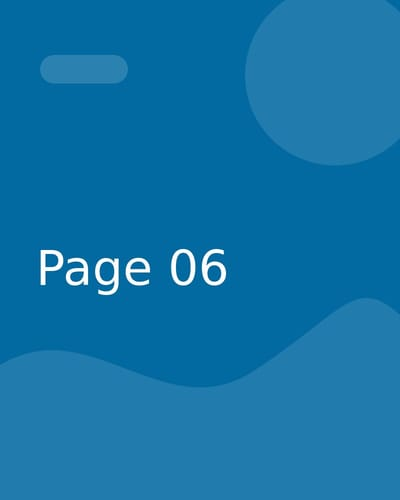
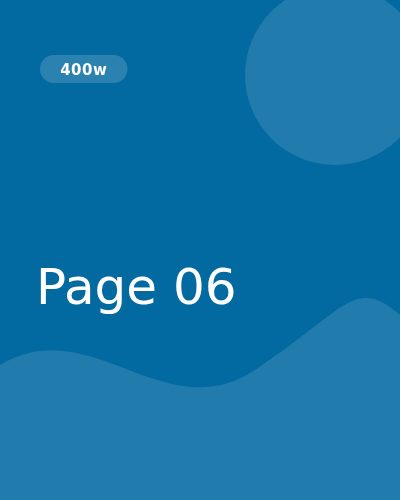
docs(core): document srcset on pages and demo three renditions (#451)
Closes #440. Part of #437.

## Summary

The last part of the `srcset` work after #443 and #449: the README
section, a fuller demo, and end-to-end coverage for each rendition.

## Changes

- **README.** A new "Responsive page images" section, placed before
"Lazy page metadata", covers:
- the `srcset` field and its microsyntax, with a link to MDN instead of
a restatement;
- why there is no `sizes`, and how the required width comes from the
slot, the fit mode, and `devicePixelRatio`;
  - the `w` / `x` selection rule;
  - that zoom is ignored and a resize only upgrades;
  - that `src` is the fallback and `placeholder` is not a rendition;
- a pointer to the plugin `url` note, which #449 already added to the
Plugins section.

  "Basic usage" now lists `srcset` among the optional page fields.
- **Demo.** #449 added a minimal `/features/srcset` route. This PR
extends that route rather than adding the `/responsive` route the issue
named, so the demo navigation keeps one entry for the feature. Each page
now has 400w, 800w, and 1600w renditions, and `src` points at the 800w
one. All 24 images are rendered from `public/page-sources/*.svg` with
the rendition width printed in the pill at the top left. This way the
demo shows which candidate is on screen. The largest file is about 49
KB. The description and the source panel are updated in both apps.
- **E2E** (`e2e/tests/features/srcset.e2e.ts`). Page 1 requests exactly
one rendition in each case:
  - `400w` on a phone;
[…]

Changed region(s): [[0.09, 0.48, 0.39, 0.63], [0.42, 0.48, 0.6, 0.63], [0.15, 0.12, 0.27, 0.15]]

diff --git a/e2e/tests/features/srcset.e2e.ts b/e2e/tests/features/srcset.e2e.ts
@@ -1,40 +1,87 @@
 import { expect, test } from "@playwright/test";
 import type { Page } from "@playwright/test";
 
-import { currentPageSet } from "#helpers/selectors";
+import { currentPageSet, viewport } from "#helpers/selectors";
 
-/** Records the path of every page image the reader requests from here on. */
-const recordPageImageRequests = (page: Page): string[] => {
-  const paths: string[] = [];
+const phone = { height: 844, width: 390 };
+const desktop = { height: 900, width: 1280 };
+
+/** Records the rendition of page 1 the reader requests each time it asks. */
+const recordFirstPageRequests = (page: Page): string[] => {
+  const renditions: string[] = [];
 
   page.on("request", (request) => {
-    const { pathname } = new URL(request.url());
-    if (/^\/(?:basic|srcset)-pages\//u.test(pathname)) {
-      paths.push(pathname);
+    const rendition = /^\/srcset-pages\/page-1-(?<width>\d+w)\.jpg$/u.exec(
+      new URL(request.url()).pathname
+    )?.groups?.width;
+    if (rendition !== undefined) {
+      renditions.push(rendition);
     }
   });
 
-  return paths;
+  return renditions;
 };
 
-test("fetches the larger rendition once the viewport grows past the smaller one", async ({
-  page,
-}) => {
-  const requestedPaths = recordPageImageRequests(page);
-  await page.setViewportSize({ height: 844, width: 390 });
+const firstPage = (page: Page) =>
+  page.locator(`${currentPageSet} canvas[aria-label="Page 1"]`);
+
+test("fetches the smallest rendition on a phone", async ({ page }) => {
+  const renditions = recordFirstPageRequests(page);
+  await page.setViewportSize(phone);
   await page.goto("/features/srcset");
 
-  const firstPage = page.locator(
-    `${currentPageSet} canvas[aria-label="Page 1"]`
-  );
-  await expect(firstPage).toHaveAttribute("data-page-status", "loaded");
-  // A phone draws the page narrower than 400 pixels, so the small one serves.
-  expect(requestedPaths).toContain("/srcset-pages/page-1-400w.jpg");
-  expect(requestedPaths).not.toContain("/basic-pages/page-1.jpg");
+  await expect(firstPage(page)).toHaveAttribute("data-page-status", "loaded");
+  // A phone draws the page narrower than 400 pixels.
+  expect(renditions).toEqual(["400w"]);
+});
 
-  await page.setViewportSize({ height: 900, width: 1280 });
+test("fetches the middle rendition on a desktop display", async ({ page }) => {
+  const renditions = recordFirstPageRequests(page);
+  await page.setViewportSize(desktop);
+  await page.goto("/features/srcset");
 
-  await expect.poll(() => requestedPaths).toContain("/basic-pages/page-1.jpg");
+  await expect(firstPage(page)).toHaveAttribute("data-page-status", "loaded");
+  expect(renditions).toEqual(["800w"]);
+});
+
+test.describe("on a high-density display", () => {
+  test.use({ deviceScaleFactor: 2 });
+
+  test("fetches the largest rendition", async ({ page }) => {
+    const renditions = recordFirstPageRequests(page);
+    await page.setViewportSize(desktop);
+    await page.goto("/features/srcset");
+
+    await expect(firstPage(page)).toHaveAttribute("data-page-status", "loaded");
+    expect(renditions).toEqual(["1600w"]);
+  });
+});
+
+test("upgrades the rendition as the viewport grows and keeps it as it shrinks", async ({
+  page,
+}) => {
+  const renditions = recordFirstPageRequests(page);
+  await page.setViewportSize(phone);
+  await page.goto("/features/srcset");
+
+  await expect(firstPage(page)).toHaveAttribute("data-page-status", "loaded");
+  expect(renditions).toEqual(["400w"]);
+
+  await page.setViewportSize(desktop);
+
+  await expect.poll(() => renditions).toEqual(["400w", "800w"]);
   // The page stays drawn while the larger rendition replaces the smaller one.
-  await expect(firstPage).toHaveAttribute("data-page-status", "loaded");
+  await expect(firstPage(page)).toHaveAttribute("data-page-status", "loaded");
+
+  await page.setViewportSize(phone);
+  await expect(page.locator(viewport)).toHaveAttribute(
+    "data-view-mode",
+    "single"
+  );
+  // Leave the loader time to start a request it should not make.
+  await page.waitForTimeout(500);
+
+  // A page that holds a larger image keeps it rather than fetching a smaller one.
+  expect(renditions).toEqual(["400w", "800w"]);
+  await expect(firstPage(page)).toHaveAttribute("data-page-status", "loaded");
 });

diff --git a/apps/demo/app/features/srcset/page.tsx b/apps/demo/app/features/srcset/page.tsx
@@ -10,9 +10,11 @@ const pages = [
   {
     height: 1000,
     id: "page-1",
-    src: "/pages/1.jpg",
-    // The same image at 400 and 800 pixels wide.
-    srcset: "/pages/1-400w.jpg 400w, /pages/1.jpg 800w",
+    // The fallback when srcset is missing or yields no candidate.
+    src: "/pages/1-800w.jpg",
+    // The same image at 400, 800, and 1600 pixels wide.
+    srcset:
+      "/pages/1-400w.jpg 400w, /pages/1-800w.jpg 800w, /pages/1-1600w.jpg 1600w",
     title: "Page 1",
     width: 800,
   },
@@ -34,11 +36,12 @@ const SrcsetPage = () => (
       <section className={styles.description}>
         <h2>Renditions from a srcset</h2>
         <p>
-          Every page lists a 400-pixel and an 800-pixel rendition in{" "}
+          Every page lists renditions 400, 800, and 1600 pixels wide in{" "}
           <code>srcset</code>, and the viewer fetches the smallest one that
           covers the width it draws the page at in device pixels, the way a
-          browser picks a candidate for <code>&lt;img srcset&gt;</code>. On a
-          phone that is the small one.
+          browser picks a candidate for <code>&lt;img srcset&gt;</code>. The
+          label at the top of each page names the rendition on screen: 400w on a
+          phone, 800w on a desktop display, and 1600w on a high-density one.
         </p>
         <p>
           Widen the window and the pages that have outgrown their rendition load

diff --git a/apps/demo-tw/app/features/srcset/page.tsx b/apps/demo-tw/app/features/srcset/page.tsx
@@ -20,11 +20,12 @@ const SrcsetPage = async () => {
         <section className="rounded-xl border border-slate-300 bg-white p-5 text-sm leading-6 shadow-sm dark:border-slate-700 dark:bg-slate-900">
           <h2 className="font-semibold">Renditions from a srcset</h2>
           <p className="mt-2 text-slate-600 dark:text-slate-300">
-            Every page lists a 400-pixel and an 800-pixel rendition in{" "}
+            Every page lists renditions 400, 800, and 1600 pixels wide in{" "}
             <code>srcset</code>, and the viewer fetches the smallest one that
             covers the width it draws the page at in device pixels, the way a
-            browser picks a candidate for <code>&lt;img srcset&gt;</code>. On a
-            phone that is the small one.
+            browser picks a candidate for <code>&lt;img srcset&gt;</code>. The
+            label at the top of each page names the rendition on screen: 400w on
+            a phone, 800w on a desktop display, and 1600w on a high-density one.
           </p>
           <p className="mt-2 text-slate-600 dark:text-slate-300">
             Widen the window and the pages that have outgrown their rendition

diff --git a/apps/demo-tw/app/features/srcset/_components/srcset-reader.tsx b/apps/demo-tw/app/features/srcset/_components/srcset-reader.tsx
@@ -35,17 +35,22 @@ const PageNavigation = () => {
   );
 };
 
+const srcsetPageUrl = (pageNumber: number, width: number): string =>
+  `/srcset-pages/page-${pageNumber}-${width}w.jpg`;
+
 /**
- * Each page lists a rendition half as wide beside the full-size image, in the
- * `srcset` microsyntax of `<img>`. The viewer fetches the smallest one that
- * covers the width it draws the page at, and a larger one once the page grows
- * past it.
+ * Each page lists three widths in the `srcset` microsyntax of `<img>`, with
+ * `src` as the fallback. The viewer fetches the smallest one that covers the
+ * width it draws the page at, and a larger one once the page grows past it.
  */
 const srcsetDocument: ViewerPage[] = basicSamplePages
   .slice(0, 8)
   .map((page, index) => ({
     ...page,
-    srcset: `/srcset-pages/page-${index + 1}-400w.jpg 400w, ${page.src} 800w`,
+    src: srcsetPageUrl(index + 1, 800),
+    srcset: [400, 800, 1600]
+      .map((width) => `${srcsetPageUrl(index + 1, width)} ${width}w`)
+      .join(", "),
   }));
 
 /**

diff --git a/apps/demo/app/_components/sample-pages.ts b/apps/demo/app/_components/sample-pages.ts
@@ -75,11 +75,17 @@ export const spreadPageSamplePages: ViewerPage[] = [
   ...basicSamplePages.slice(4, 8),
 ];
 
-// Each page offers a rendition half as wide beside the full-size image, and
-// the viewer loads the one nearest the width it draws the page at.
+// Each page comes in three widths, each labelled with its own width, and the
+// viewer loads the one nearest the width it draws the page at.
+const srcsetPageUrl = (pageNumber: number, width: number): string =>
+  `/srcset-pages/page-${pageNumber}-${width}w.jpg`;
+
 export const srcsetSamplePages: ViewerPage[] = basicSamplePages
   .slice(0, 8)
   .map((page, index) => ({
     ...page,
-    srcset: `/srcset-pages/page-${index + 1}-400w.jpg 400w, ${page.src} 800w`,
+    src: srcsetPageUrl(index + 1, 800),
+    srcset: [400, 800, 1600]
+      .map((width) => `${srcsetPageUrl(index + 1, width)} ${width}w`)
+      .join(", "),
   }));

diff --git a/packages/core/README.md b/packages/core/README.md
@@ -41,7 +41,7 @@ The stylesheet was named `core.css` before it was renamed to `default.css`. `@pu
 
 ## Basic usage
 
-Import the package namespace and compose `ComicViewer.Root` with `ComicViewer.Viewport`, providing a page list. Each component is an independent named export, so a bundler can omit the ones you never render. A page needs an `id`, `src`, and accessible `title`; `width`, `height`, `layout`, `mimeType`, and `placeholder` are optional.
+Import the package namespace and compose `ComicViewer.Root` with `ComicViewer.Viewport`, providing a page list. Each component is an independent named export, so a bundler can omit the ones you never render. A page needs an `id`, `src`, and accessible `title`; `width`, `height`, `layout`, `mimeType`, `placeholder`, and [`srcset`](#responsive-page-images) are optional.
 
 ```tsx
 import * as ComicViewer from "@publira/comic-viewer";
@@ -324,6 +324,34 @@ Each of them renders one element carrying `pcv-page` and `pcv-page-slot`, with `
 ```
 
 Links, buttons, form controls, and other interactive elements inside them keep their own clicks and touches: the viewport leaves a gesture that starts on a control alone instead of reading it as an edge click or a swipe.
+
+## Responsive page images
+
+A page can offer its image in several renditions through `srcset`, and the viewer fetches the one nearest the size it is about to draw the page at, so a reader on a phone does not download the image a 4K display needs. The value takes the [`srcset` microsyntax of `<img>`](https://developer.mozilla.org/en-US/docs/Web/HTML/Reference/Elements/img#srcset), with `w` or `x` descriptors, and is parsed the way a browser parses it. A string already generated for an `<img>` element can be passed as it is.
+
+```tsx
+const pages: ViewerPage[] = [
+  {
+    height: 1800,
+    id: "page-1",
+    src: "https://example.com/pages/1-1200w.jpg",
+    srcset:
+      "https://example.com/pages/1-600w.jpg 600w, https://example.com/pages/1-1200w.jpg 1200w, https://example.com/pages/1-2400w.jpg 2400w",
+    title: "Page 1",
+    width: 1200,
+  },
+];
+```
+
+There is no `sizes`. A browser needs it because it picks a candidate before the layout exists, whereas the viewer measures the viewport before it loads a page and works out the width itself: the width of the page slot, which is half the viewport in double-page mode unless the page is a [spread](#pages-that-are-a-whole-spread), times `devicePixelRatio`. When the page fits its height and has `width` and `height`, the width follows from the slot height and the aspect ratio instead, capped at the slot width. Without them the slot width is used.
+
+The selection follows the browser rule. For `w` candidates the viewer takes the smallest one at least as wide as the required width, or the largest one when none is. For `x` candidates it takes the smallest density at or above `devicePixelRatio`, or the largest one. A list that mixes `w` and `x` is invalid, as in HTML.
+
+The pinch zoom scale is not part of the required width, so zooming in neither reloads a page nor changes its rendition. Resizing does: when the viewport grows, or the view mode or fit mode changes, a page whose rendition is now too small fetches a larger one and keeps drawing the image it has until the larger one is decoded. The selection only moves up. A page that already holds a larger image keeps it and is drawn scaled down, and nothing is fetched again to get a smaller one.
+
+`src` stays required: it is the image loaded when a page has no `srcset` or the list yields no valid candidate. A page `placeholder` is not a rendition. It is drawn while the first image of the page loads and plays no part in the selection or in an upgrade.
+
+The `url` that [plugin hooks](#plugins) receive is the chosen candidate, or `src` when there is none, and an upgrade runs the hooks again for the larger one.
 
 ## Lazy page metadata
 
